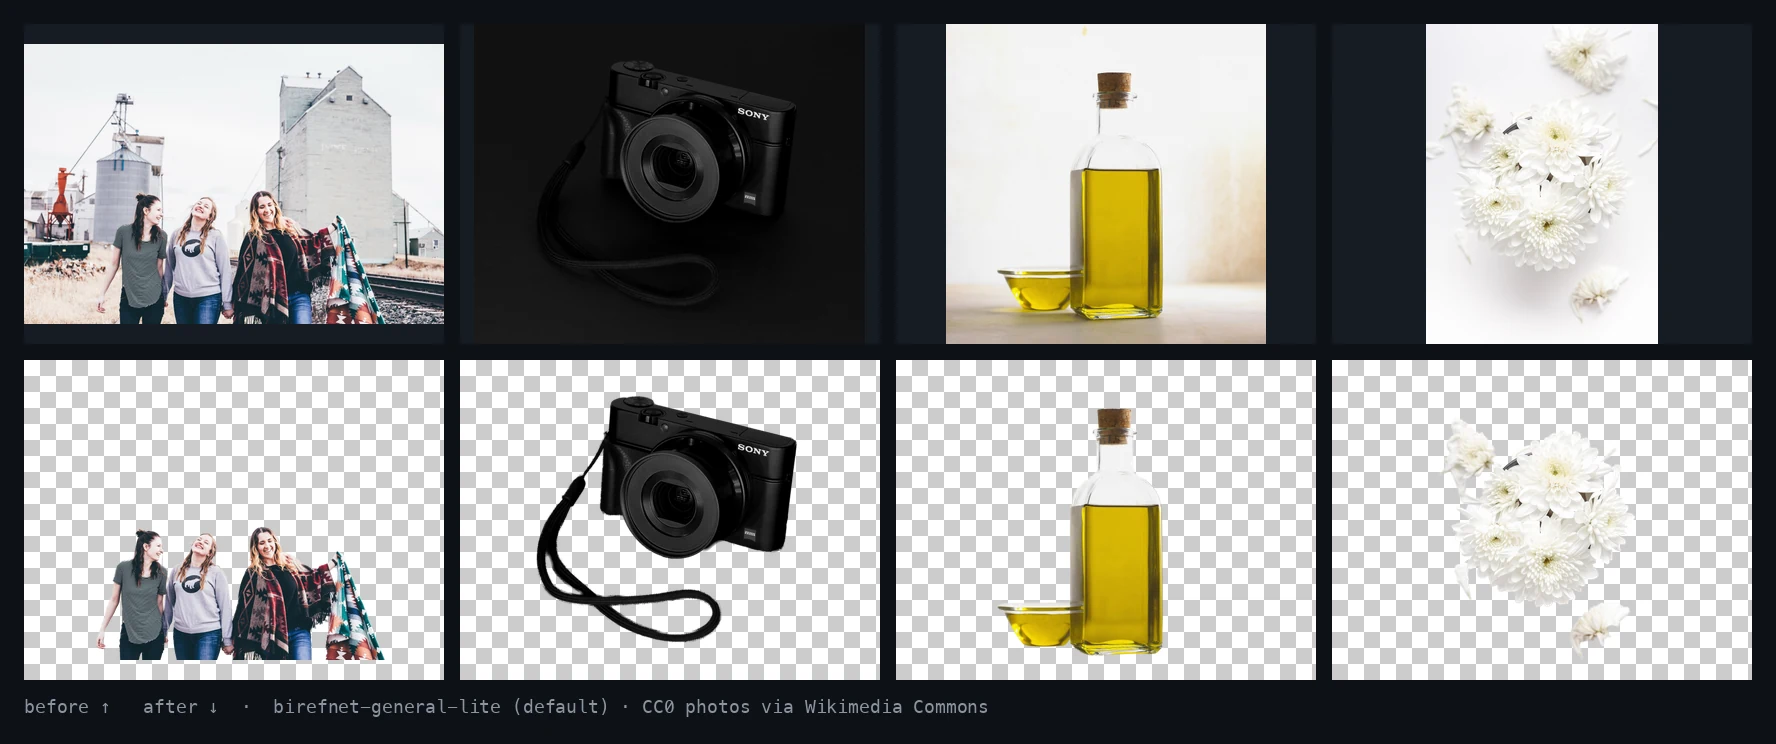
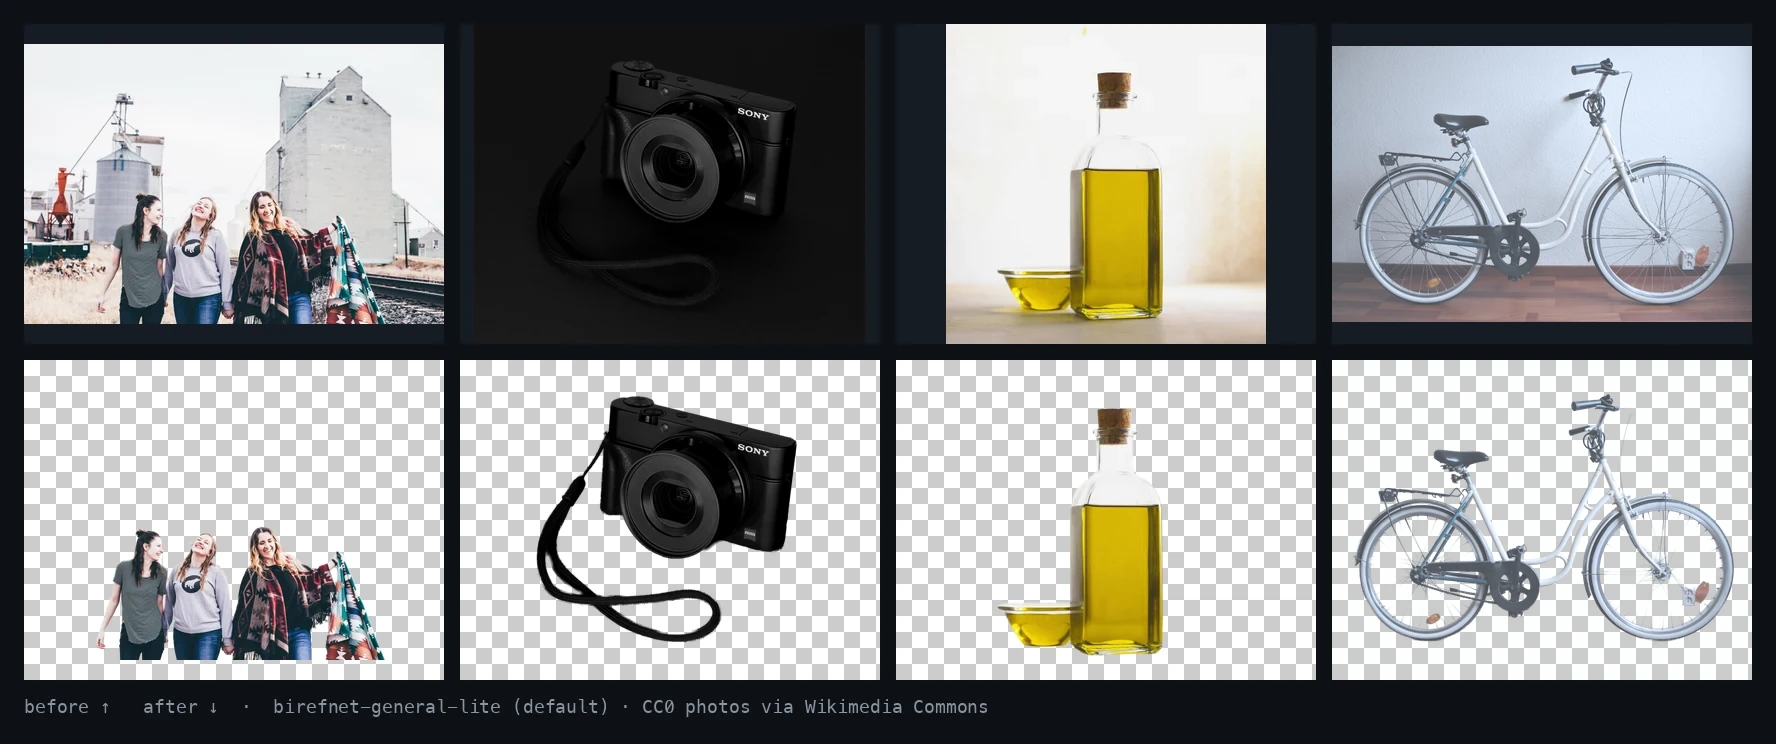
docs: bicycle replaces the flowers in the showcase; third fresh-agent run
The white-on-white flowers are the benchmark's hardest case and every model
leaves flaws, so the README showcase now shows a CC0 bicycle (default model,
fine spokes). The flowers stay in the benchmark data.

BENCHMARK.md records the shop-flow fire test: a fresh session picked --shop
by itself, all 247 outputs verified as 2000 px white JPEGs, 9 of 17 redos
kept. SKILL.md: read a background run's output with the file tool.

Changed region(s): [[0.7432, 0.0309, 0.991, 0.4637], [0.7432, 0.5255, 0.991, 0.8656]]

diff --git a/README.md b/README.md
@@ -49,7 +49,7 @@ Selling online? `--shop` puts every product on white, square, 2000 px and ready 
 upload; `--background "#E6F6EA"` uses your brand colour instead.
 
 <p align="center">
-  <img src="https://raw.githubusercontent.com/Btike/bulk-bg-remove/main/assets/showcase.webp" width="880" alt="Four before-and-after pairs: three friends by train tracks, a black camera on black, a bottle of olive oil and white flowers on white, each cut out onto a transparency checkerboard">
+  <img src="https://raw.githubusercontent.com/Btike/bulk-bg-remove/main/assets/showcase.webp" width="880" alt="Four before-and-after pairs: three friends by train tracks, a black camera on black, a bottle of olive oil, and a white bicycle against a wall, each cut out onto a transparency checkerboard">
 </p>
 
 Reads JPG, PNG, HEIC, WebP, AVIF, TIFF and BMP (by content, not extension), follows
@@ -137,8 +137,8 @@ fits in your free RAM. Scores are from a [blind-judged benchmark](https://github
 
 Built on [rembg](https://github.com/danielgatis/rembg) and
 [BiRefNet](https://github.com/ZhengPeng7/BiRefNet). Showcase and demo photos (CC0, via
-Wikimedia Commons): Priscilla Du Preez, Dennis Klein, margenauer, Hisu lee, Mona Magnussen,
-Natasza Remesz, Dmitry Ratushny. The demo film is drawn in code (GSAP, rendered frame by
+Wikimedia Commons): Priscilla Du Preez, Dennis Klein, margenauer, Natasza Remesz,
+Mona Magnussen, Tiko Giorgadze, Dmitry Ratushny. The demo film is drawn in code (GSAP, rendered frame by
 frame in headless Chromium) from the engine's real output.
 
 ## License

diff --git a/BENCHMARK.md b/BENCHMARK.md
@@ -165,6 +165,18 @@ wine glass, three catalogue products), 12 kept as they were and reported.
 Every redone file differed from the first pass; none was copied over without
 a reviewer's `keep: new`.
 
+A third fresh session tested the shop flow from a clean install. The only
+request was *"use the bulk-bg-remove skill to remove the background from every
+photo in this folder; they are for my online store"*. It picked `--shop` on its
+own and processed **247 of 248**: every output was a 2000×2000 white JPEG
+carrying the `--shop` finish in its metadata. Five reviewers found 17 to
+redo. The agent redid them with the same finishing flags and kept **9** that
+were clearly better. In its report it listed the 5 that a second pass did not
+fix, the placeholders and scenes that do not belong in a shop, and the small
+originals that `--size 2000` had to enlarge, offering `--size 1000` as an
+option. The whole session cost about $5.70 in model usage, most of it for
+looking at review close-ups.
+
 ## Caveats
 
 - One judge (a vision model) per image, no second opinion: read gaps under

diff --git a/skills/bulk-bg-remove/SKILL.md b/skills/bulk-bg-remove/SKILL.md
@@ -111,7 +111,9 @@ bulk-bg-remove "<path>" --profile <profile> [finishing flags] --review-sheets --
   mid-run when RAM is low (a worker restarting to free memory): not a crash.
 - If `plan.eta_seconds` is over ~120, run it in the background if your harness
   allows, and report progress now and then from `job_done` events
-  (`done`/`total`, `source`).
+  (`done`/`total`, `source`). Read a background run's output file with your
+  file-reading tool, not with a shell command (`python`, `tail`…), which needs
+  extra approval.
 - Output: `shoe.jpg` → `shoe-no-bg/shoe.png` (`.jpg` with `--shop`); `products/` → `products-no-bg/`
   with sub-folders mirrored, next to the input. `-o DIR` overrides it. If two
   inputs share a name (`product.jpg` + `product.png`), both get their extension
